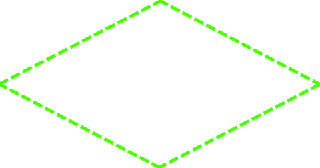
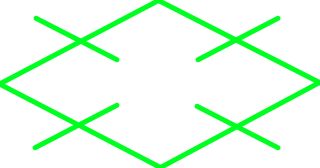
improved buildings

Changed region(s): [[0.0, 0.0, 1.0, 1.0]]

diff --git a/game/buildings.py b/game/buildings.py
@@ -4,22 +4,26 @@ from engine import image
 from game import isometric
 from game.entities import Entity
 
+import enum
+
+
+class Area(enum.IntEnum):
+    OneByOne = 1
+    TwoByTwo = 2
+    ThreeByThree = 3
+
 
 # Add right offset too for 2x2 buildings?
 class Building(Entity):
-    def __init__(self, bottom_offset, *groups):
+    def __init__(self, pos: tuple[int, int], image_name: str, bottom_offset: int, area: Area, *groups):
         super().__init__(bottom_offset, *groups)
-
-
-class Nexus(Building):
-    def __init__(self, pos: tuple[int, int], *groups):
-        super().__init__(84, *groups)
-
         self.pos = pos
-        self.image = image.load_image("nexus")
-        rect = pygame.Rect(0, 0, 344, 440)
+        self.image = image.load_image(image_name)
+        self.area = area
+        rect = pygame.Rect(0, 0, *self.image.size)
         px, py = isometric.tile_to_world_coords(*self.pos)
-        self.rect = rect.move_to(centerx = px, bottom = py + self.bottom_offset)
+        ox = 80 if area == Area.TwoByTwo else 0  # offset the X from tile center on TwoByTwo
+        self.rect = rect.move_to(centerx = px + ox, bottom = py + self.bottom_offset)
 
     def occupies_tile(self, tile: tuple[int, int]) -> bool:
         """
@@ -27,6 +31,57 @@ class Nexus(Building):
         """
         tx, ty = tile
         px, py = self.pos
-        print(tx, ty)
-        print(px, py)
+        if self.area == Area.OneByOne:
+            return px == tx and py == ty
+        elif self.area == Area.TwoByTwo:
+            return px <= tx <= px + 1 and py - 1 <= ty <= py
         return px - 1 <= tx <= px + 1 and py - 1 <= ty <= py + 1
+
+    def get_center(self):
+        """
+        Get the world coord of this building's center
+        """
+        px, py = isometric.tile_to_world_coords(*self.pos)
+        if self.area == Area.TwoByTwo:
+            return px + 80, py
+        return px, py
+
+
+class Nexus(Building):
+    def __init__(self, pos: tuple[int, int], *groups):
+        super().__init__(pos, "nexus", 84, Area.ThreeByThree, *groups)
+
+
+class Pod(Building):
+    def __init__(self, pos: tuple[int, int], *groups):
+        super().__init__(pos, "nexus2", 42, Area.TwoByTwo, *groups)
+
+
+class Tower(Building):
+    def __init__(self, pos: tuple[int, int], *groups):
+        super().__init__(pos, "nexus1", 25, Area.OneByOne, *groups)
+
+
+class Farm(Building):
+    def __init__(self, pos: tuple[int, int], *groups):
+        super().__init__(pos, "fungusfarm", 84, Area.ThreeByThree, *groups)
+
+
+# class Lumbermill(Building):
+#     def __init__(self, pos: tuple[int, int], *groups):
+#         super().__init__(bottom_offset, *groups)
+
+
+# class Forgery(Building):
+#     def __init__(self, pos: tuple[int, int], *groups):
+#         super().__init__(bottom_offset, *groups)
+
+
+# class Barracks(Building):
+#     def __init__(self, pos: tuple[int, int], *groups):
+#         super().__init__(bottom_offset, *groups)
+
+
+# class Siegery(Building):
+#     def __init__(self, pos: tuple[int, int], *groups):
+#         super().__init__(bottom_offset, *groups)

diff --git a/scenes/game.py b/scenes/game.py
@@ -23,6 +23,8 @@ class Game(Scene):
         isometric.initialize_isometry(len(terrain), 160, 84)
         
         self.selector_image = image.load_image("selector")
+        self.selected1_image = image.load_image("selected1")
+        self.selected2_image = image.load_image("selected2")
         self.selected3_image = image.load_image("selected3")
         self.selector = (0, 0)
 
@@ -37,6 +39,9 @@ class Game(Scene):
         self.entities.add(
             buildings.Nexus((3, 3), self.buildings),
             buildings.Nexus((90, 90), self.buildings),
+            buildings.Pod((3, 8), self.buildings),
+            buildings.Farm((3, 13), self.buildings),
+            buildings.Tower((7, 9), self.buildings),
         )
         self.selected_entity = None
     
@@ -73,9 +78,9 @@ class Game(Scene):
                 surface.blit(surf, (rect.left - self.camera.rect.left, rect.top - self.camera.rect.top))
 
         if self.selected_entity is not None:
-            px, py = isometric.tile_to_screen_coords(*self.selected_entity.pos, self.camera)
-            r = pygame.Rect(0, 0, 480, 252).move_to(center=(px, py))
-            surface.blit(self.selected3_image, r)
+            img = {1: self.selected1_image, 2: self.selected2_image, 3: self.selected3_image}[self.selected_entity.area]
+            r = img.get_rect().move_to(center=isometric.world_to_screen_coords(*self.selected_entity.get_center(), self.camera))
+            surface.blit(img, r)
             
 
         if 0 <= self.selector[0] < 100 and 0 <= self.selector[1] < 100:

diff --git a/game/isometric.py b/game/isometric.py
@@ -63,6 +63,13 @@ def tile_to_screen_coords(x: int, y: int, camera: Camera) -> tuple[int, int]:
     return px - camera.rect.left, py - camera.rect.top
 
 
+def world_to_screen_coords(x: int, y: int, camera: Camera) -> tuple[int, int]:
+    """
+    Convert world coords to screen coords
+    """
+    return x - camera.rect.left, y - camera.rect.top
+
+
 def get_world_size() -> tuple[int, int]:
     """
     Return the world size
